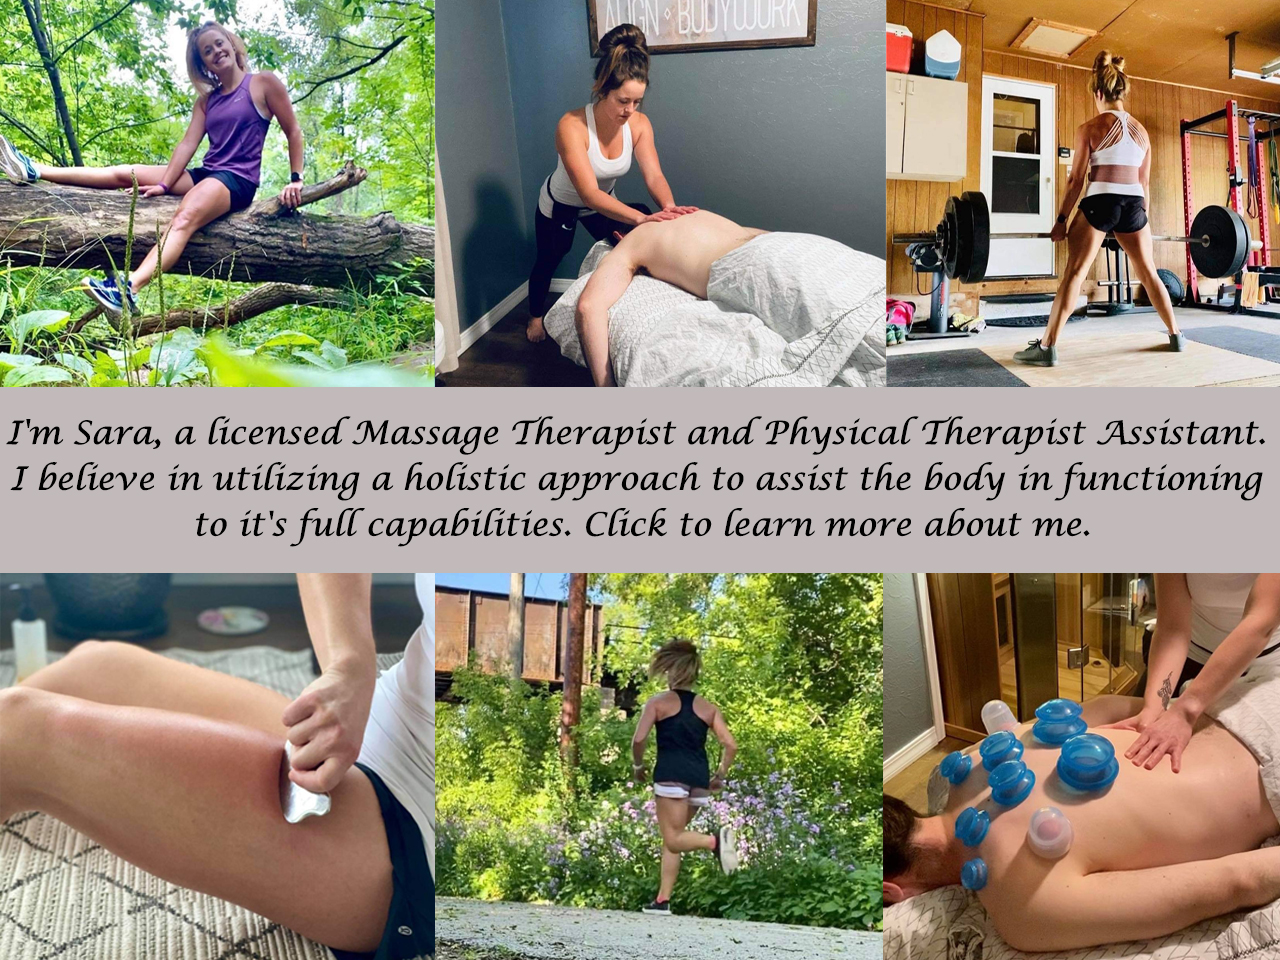
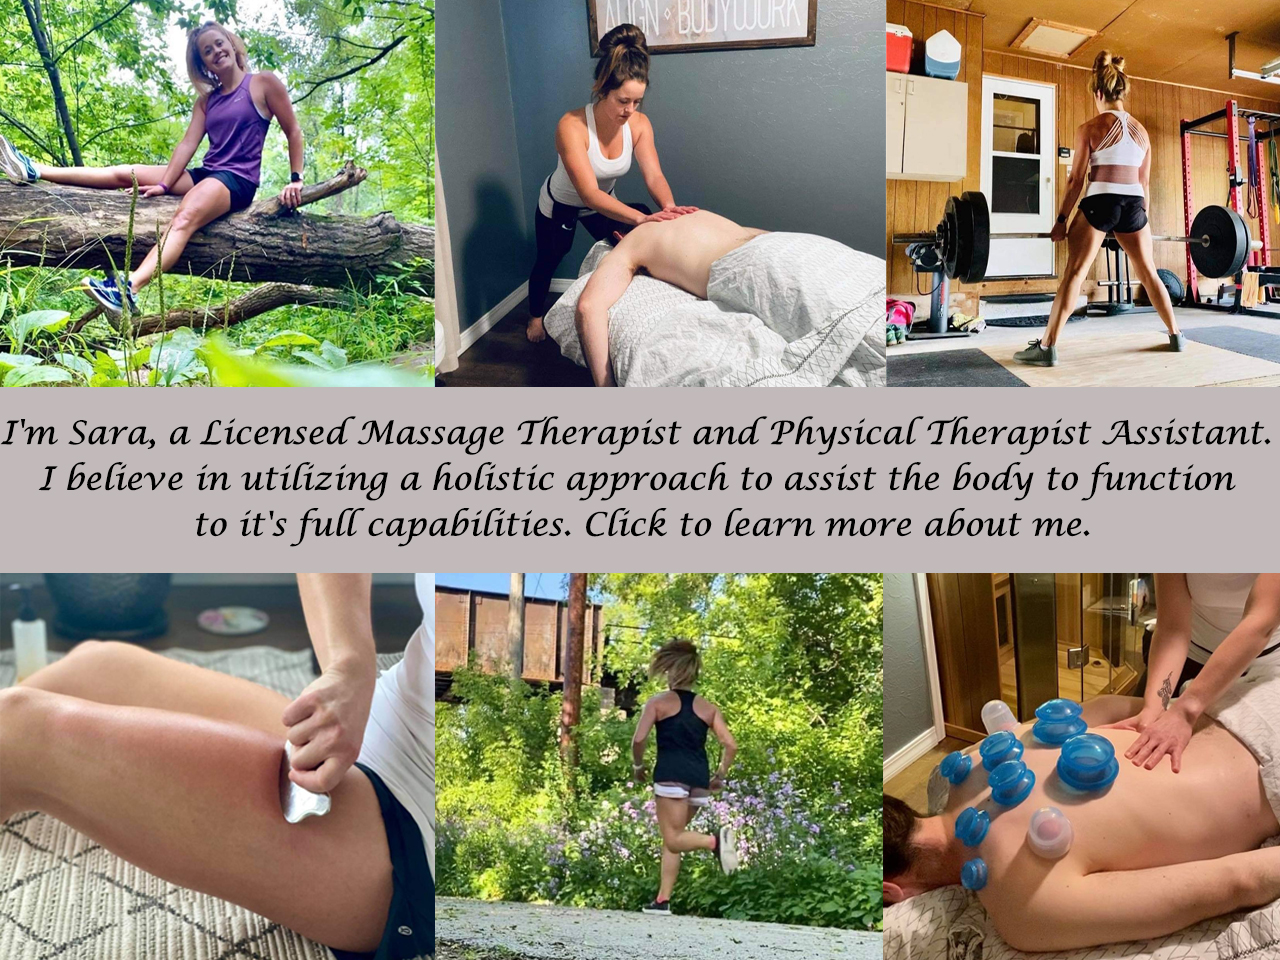
Add files via upload

Changed region(s): [[0.0, 0.4375, 1.0, 0.5312]]

diff --git a/index.html b/index.html
@@ -29,7 +29,7 @@
 
     <img class="marble-bg" src="marble2.jpg" alt="massage-room-wall">
 
-    <script>alert("The about me slide isn't 100% done (font and colors mainly), I just wanted to see it on my phone. Initial thoughts?")
+    <script>alert("Nothing new here besides the tweaks from your message.")
     </script>
 
     <header class="logo-nav text-center">
@@ -120,11 +120,11 @@
                     <div class="col-12 carousel-img carousel-img-landscape p-0 align-items-center">
 
                         <div class="col">
-                            <p class="slide-body text-center mx-auto">I'm Sara, a licensed Massage Therapist and
+                            <p class="slide-body text-center mx-auto">I'm Sara, a Licensed Massage Therapist and
                                 Physical
                                 Therapist Assistant. I believe in utilizing <span> a holistic approach to assist the
-                                    body in
-                                    functioning to it's full capabilities</span>
+                                    body to
+                                    function to it's full capabilities</span>
                             </p>
 
                             <div class="col-12 mx-auto text-center">

diff --git a/about-me.html b/about-me.html
@@ -92,7 +92,8 @@
                             dogs.
                         </p>
                         <p class="">
-                            I use a holistic approach to assist the body to function to its best capabilities. Via
+                            I believe in utilizing a holistic approach to assist the body to function
+                            to it's full capabilities. Via
                             collaboration with you and my
                             training and experience, I focus to:
                         <ul>
